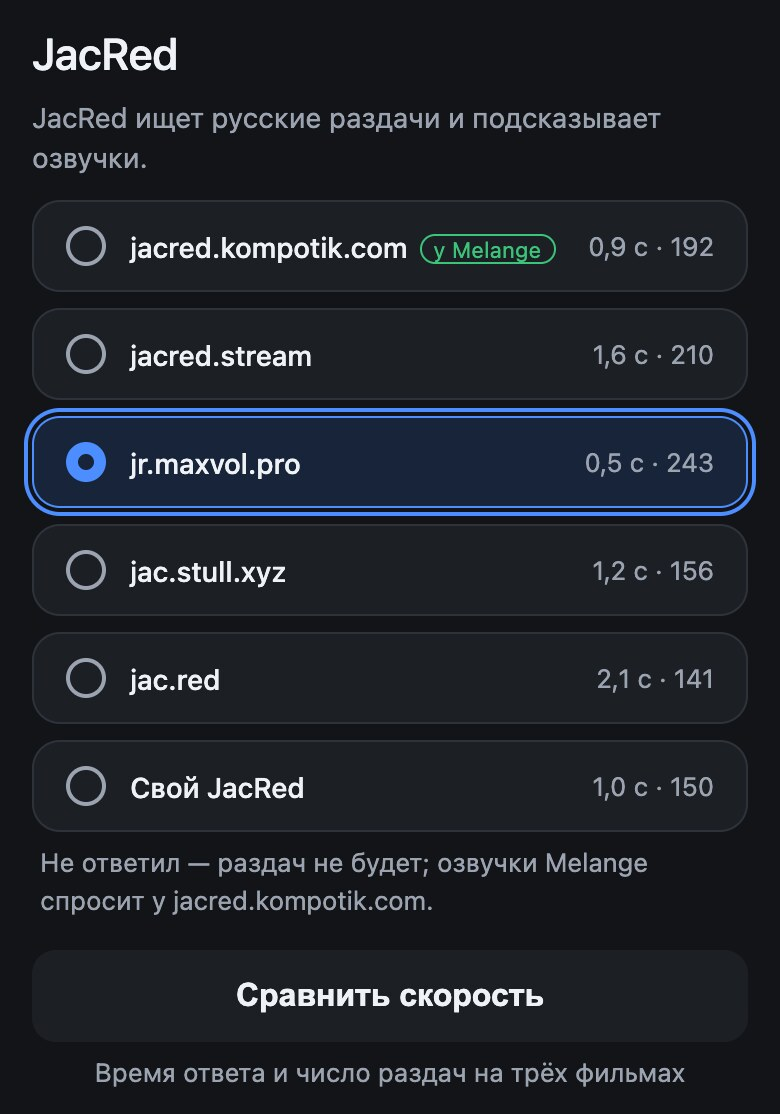
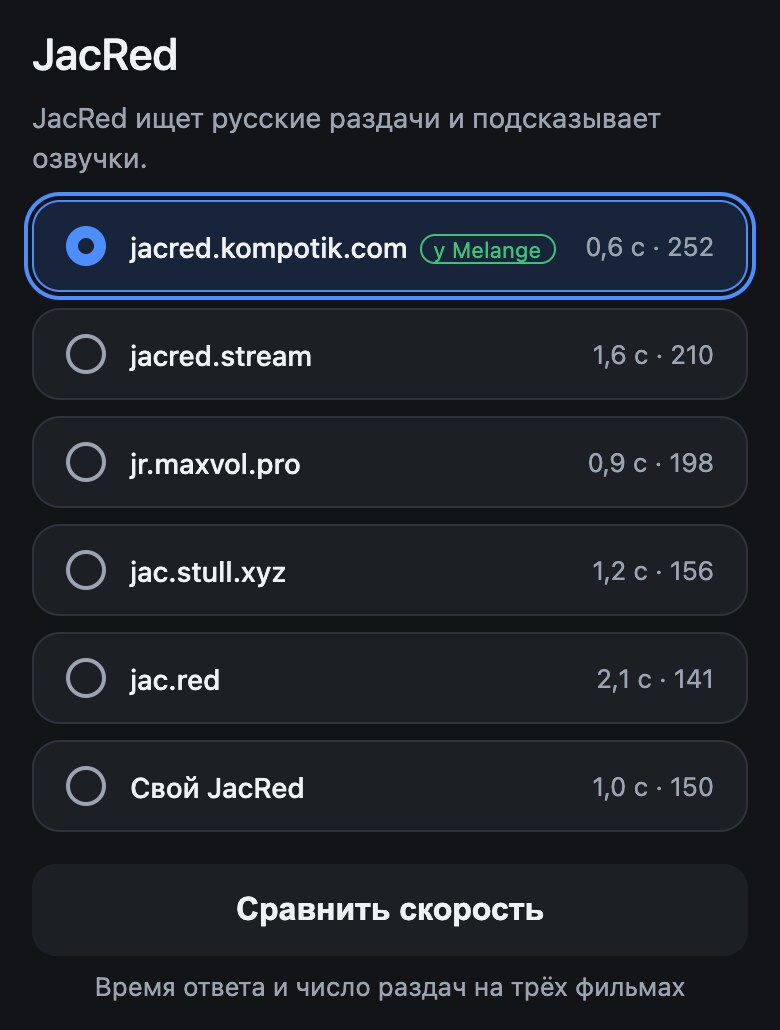
Гайд v2 (A2): JacRed — рекомендуем сервер Melange

diff --git a/docs/jacred.md b/docs/jacred.md
@@ -1,16 +1,16 @@
 # JacRed
 
-Если раздач мало, выберем JacRed (сервис, который ищет раздачи на русских трекерах), который отвечает быстрее и находит больше. [← Оглавление](README.md)
+Проверим, что JacRed (сервис, который ищет раздачи на русских трекерах) отвечает. Рекомендуем сервер Melange: он выбран по умолчанию, и на него приходят исправления. Другой JacRed нужен, только если сервер Melange не отвечает. [← Оглавление](README.md)
 
 1. На странице настроек ([Страница настроек с телефона](phone-page.md)) откройте «JacRed» и нажмите «Сравнить скорость» внизу экрана.
 
-   <img src="../screenshots/jacred-compare.jpg" alt="Экран «JacRed»: список серверов, внизу выделена кнопка «Сравнить скорость»" width="300">
+   <img src="../screenshots/jacred-compare.jpg" alt="Экран «JacRed»: выбран jacred.kompotik.com с пометкой «у Melange», внизу выделена кнопка «Сравнить скорость»" width="300">
 
-2. Подождите около минуты. У каждого JacRed появятся время ответа и число раздач, найденных на трёх фильмах. Выберите быстрый, у которого больше раздач.
+2. Подождите до минуты. У каждого JacRed появятся время ответа и число раздач на трёх фильмах. Если у сервера с пометкой «у Melange» есть цифры, ничего не меняйте.
 
-   <img src="../screenshots/jacred-result.jpg" alt="У каждого JacRed время и число раздач, выбран jr.maxvol.pro: «0,5 с · 243»" width="300">
+   <img src="../screenshots/jacred-result.jpg" alt="У каждого JacRed время и число раздач, выбран jacred.kompotik.com «у Melange»: «0,6 с · 252»" width="300">
 
-3. Нажмите «Сохранить». Появится «Сохранено. Дюна подхватит настройки сама.»
+3. Если у сервера Melange «нет ответа», выберите JacRed, который ответил быстрее других, и нажмите «Сохранить». Когда сервер Melange снова заработает, верните его.
 
    <img src="../screenshots/phone-saved.jpg" alt="Вверху страницы зелёная строка «Сохранено. Дюна подхватит настройки сама.»" width="300">
 
@@ -18,7 +18,7 @@
 
 ## Если не получилось
 
-- У JacRed написано «нет ответа» — не выбирайте его: раздач с ним не будет.
-- Раздач по-прежнему мало — см. [Известные ограничения](limitations.md).
+- «нет ответа» у всех серверов — проверьте интернет на Дюне и нажмите «Сравнить скорость» ещё раз.
+- Сервер JacRed отвечает, а раздач мало — см. [Известные ограничения](limitations.md).
 
 Дальше: [Оглавление](README.md)

diff --git a/docs/torrserver.md b/docs/torrserver.md
@@ -28,6 +28,6 @@
 
 - После быстрой настройки Дюна пишет «TorrServer не отвечает» — установите и запустите TorrServe ([Быстрый старт](start.md)).
 - «Проверить» пишет красным — см. [Решение проблем](troubleshooting.md).
-- Раздач мало — выберите другой [JacRed](jacred.md) или выберите «Везде» в «Где искать раздачи».
+- Раздач мало — выберите «Везде» в «Где искать раздачи»; если сервер JacRed не отвечает — [JacRed](jacred.md).
 
 Дальше: [JacRed](jacred.md) · [Оглавление](README.md)
